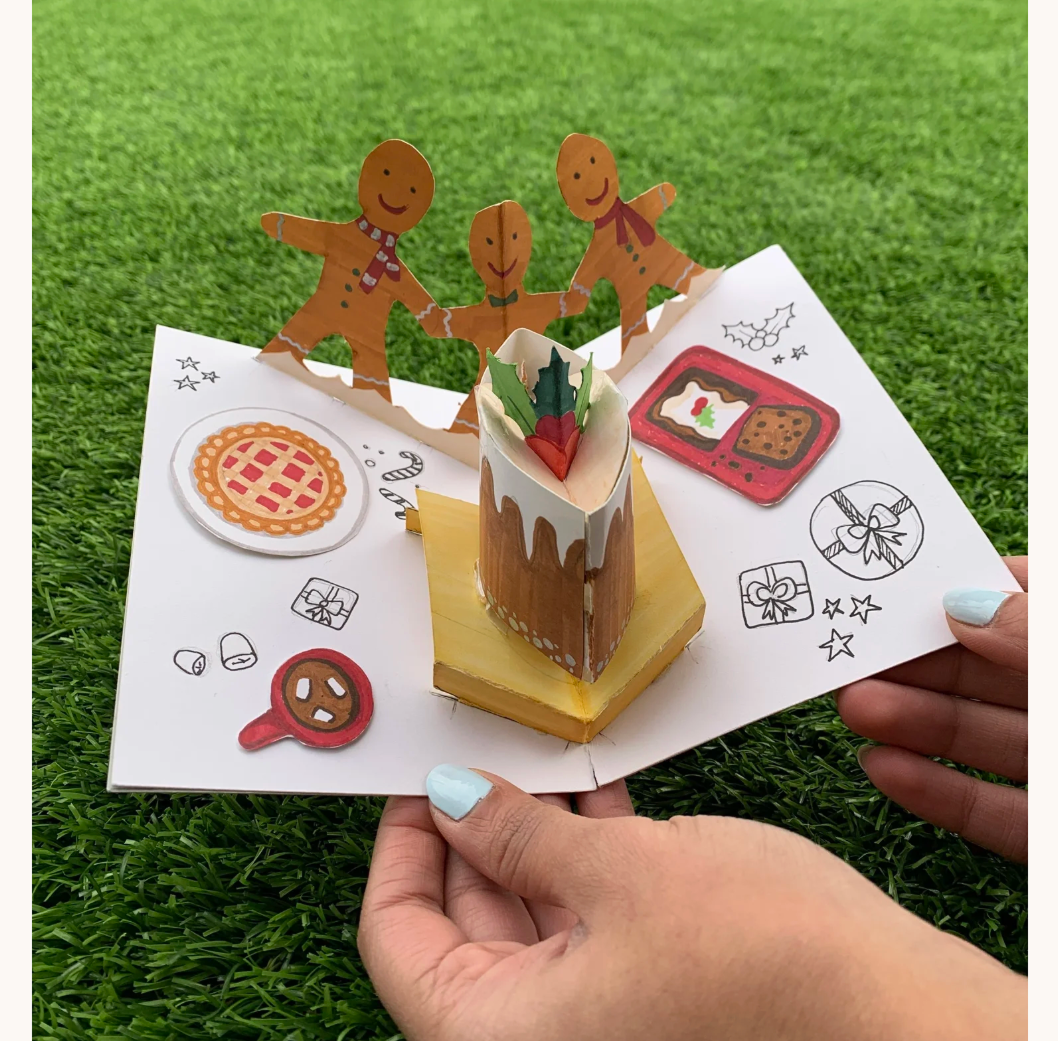
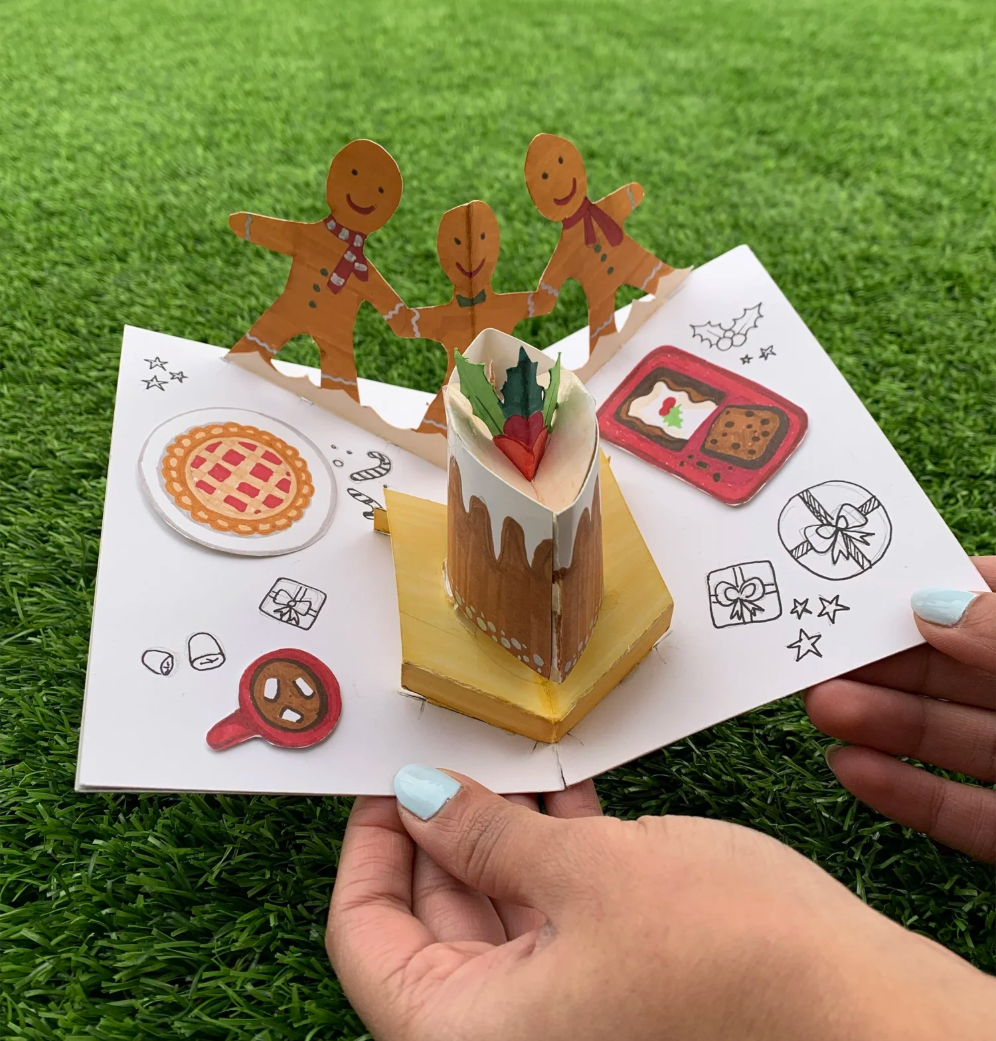
Add hover tooltips, forward-lift, and trim white padding on Beyond UX gallery
Replaces static captions with hover tooltip bubbles (matching the homepage
logo interaction), lifts images toward the viewer via 3D perspective instead
of translateY, trims baked-in white/off-white padding from product renders
and sketches, tightens grid spacing, and rounds image corners by 4px.

diff --git a/app/about/page.tsx b/app/about/page.tsx
@@ -5,6 +5,62 @@ import Image from "next/image";
 export default function About() {
   return (
     <div style={{ backgroundColor: "#FDF6EC", minHeight: "100vh" }}>
+      <style>{`
+        .beyond-item {
+          position: relative;
+          z-index: 1;
+          perspective: 1000px;
+        }
+        .beyond-item:hover {
+          z-index: 20;
+        }
+        .beyond-image {
+          display: block;
+          border-radius: 4px;
+          transition: transform 0.25s ease, box-shadow 0.25s ease;
+          transform: translateZ(0) scale(1);
+        }
+        .beyond-item:hover .beyond-image {
+          transform: translateZ(60px) scale(1.06);
+          box-shadow: 0 22px 32px rgba(0,0,0,0.22);
+        }
+        .beyond-tooltip {
+          position: absolute;
+          bottom: calc(100% + 14px);
+          left: 50%;
+          background: #275F55;
+          color: #FDF6EC;
+          font-family: 'Nunito', sans-serif;
+          font-size: 13px;
+          font-weight: 600;
+          padding: 10px 16px;
+          border-radius: 16px;
+          width: max-content;
+          max-width: 260px;
+          text-align: center;
+          line-height: 1.4;
+          pointer-events: none;
+          opacity: 0;
+          transition: opacity 0.2s ease, transform 0.2s ease;
+          transform: translateX(-50%) translateY(4px);
+          letter-spacing: 0.01em;
+          z-index: 10;
+        }
+        .beyond-tooltip::after {
+          content: '';
+          position: absolute;
+          top: 100%;
+          left: 50%;
+          transform: translateX(-50%);
+          border: 6px solid transparent;
+          border-top-color: #275F55;
+        }
+        .beyond-item:hover .beyond-tooltip {
+          opacity: 1;
+          transform: translateX(-50%) translateY(0);
+        }
+      `}</style>
+
       <Nav />
 
       <div style={{ maxWidth: "1120px", margin: "0 auto", padding: "0 48px" }}>
@@ -122,87 +178,62 @@ export default function About() {
             <div
               style={{
                 columnCount: 2,
-                columnGap: "40px",
+                columnGap: "16px",
                 marginTop: "24px",
               }}
             >
               {/* Image 1 */}
-              <div style={{ breakInside: "avoid", marginBottom: "40px" }}>
+              <div className="beyond-item" style={{ breakInside: "avoid", marginBottom: "16px" }}>
                 <Image
                   src="/beyond/mentor-1.png"
                   alt="Mentorship at high schools"
                   width={1808}
                   height={1356}
-                  style={{ display: "block", width: "100%", height: "auto" }}
+                  className="beyond-image"
+                  style={{ width: "100%", height: "auto" }}
                 />
-                <p
-                  style={{
-                    fontFamily: "'Nunito', sans-serif",
-                    fontWeight: 400,
-                    fontSize: "14px",
-                    color: "#275F55",
-                    marginTop: "12px",
-                    lineHeight: 1.4,
-                  }}
-                >
+                <div className="beyond-tooltip">
                   Mentorship on &ldquo;Careers in Design&rdquo; at high schools
-                </p>
+                </div>
               </div>
 
               {/* Image 2 */}
-              <div style={{ breakInside: "avoid", marginBottom: "40px" }}>
+              <div className="beyond-item" style={{ breakInside: "avoid", marginBottom: "16px" }}>
                 <Image
                   src="/beyond/mentor-2.png"
                   alt="Intro to UX at NYU"
                   width={1016}
                   height={1356}
-                  style={{ display: "block", width: "100%", height: "auto" }}
+                  className="beyond-image"
+                  style={{ width: "100%", height: "auto" }}
                 />
-                <p
-                  style={{
-                    fontFamily: "'Nunito', sans-serif",
-                    fontWeight: 400,
-                    fontSize: "14px",
-                    color: "#275F55",
-                    marginTop: "12px",
-                    lineHeight: 1.4,
-                  }}
-                >
+                <div className="beyond-tooltip">
                   &ldquo;Intro to UX&rdquo; course at NYU
-                </p>
+                </div>
               </div>
 
               {/* Image 3 */}
-              <div style={{ breakInside: "avoid", marginBottom: "40px" }}>
+              <div className="beyond-item" style={{ breakInside: "avoid", marginBottom: "16px" }}>
                 <Image
                   src="/beyond/mentor-3.png"
                   alt="Industry Panels"
                   width={1408}
                   height={1056}
-                  style={{ display: "block", width: "100%", height: "auto" }}
+                  className="beyond-image"
+                  style={{ width: "100%", height: "auto" }}
                 />
-                <p
-                  style={{
-                    fontFamily: "'Nunito', sans-serif",
-                    fontWeight: 400,
-                    fontSize: "14px",
-                    color: "#275F55",
-                    marginTop: "12px",
-                    lineHeight: 1.4,
-                  }}
-                >
-                  Industry Panels
-                </p>
+                <div className="beyond-tooltip">Industry Panels</div>
               </div>
 
               {/* Image 4 — no caption */}
-              <div style={{ breakInside: "avoid", marginBottom: "40px" }}>
+              <div className="beyond-item" style={{ breakInside: "avoid", marginBottom: "16px" }}>
                 <Image
                   src="/beyond/mentor-4.png"
                   alt=""
                   width={1406}
                   height={1056}
-                  style={{ display: "block", width: "100%", height: "auto" }}
+                  className="beyond-image"
+                  style={{ width: "100%", height: "auto" }}
                 />
               </div>
             </div>
@@ -233,41 +264,31 @@ export default function About() {
             <div
               style={{
                 columnCount: 2,
-                columnGap: "40px",
+                columnGap: "16px",
                 marginTop: "24px",
               }}
             >
               {[
-                { src: "/beyond/industrial-1a.png", alt: "Pop-up gardening cart for elderly", caption: "Design for elderly: A pop-up gardening cart for community common spaces in cities", width: 1040, height: 714 },
-                { src: "/beyond/industrial-1b.png", alt: "Windfall lighting exhibit design", caption: "Windfall: Lighting Exhibit Design", width: 1032, height: 743 },
-                { src: "/beyond/industrial-2.png", alt: "Ripples lighting exhibit design", caption: "Ripples: Lighting Exhibit Design", width: 830, height: 934 },
-                { src: "/beyond/industrial-3.png", alt: "Allerpack travel kit for food allergies", caption: "Allerpack: A travel kit for food allergies", width: 1126, height: 1075 },
-                { src: "/beyond/industrial-4.png", alt: "Green and Garnishes serving set", caption: "Green and Garnishes serving set: An all-inclusive salad bowl made for the Uncommon Goods brand catalog", width: 1070, height: 1149 },
-                { src: "/beyond/industrial-5.png", alt: "Globetrotter game for kids", caption: "Globetrotter: An imaginative game for kids to promote story-telling and problem-solving", width: 1036, height: 536 },
-                { src: "/beyond/industrial-6.png", alt: "Lemon squeezer design", caption: "Lemon Squeezer design: A lemon squeezing mechanism designed to minimize mess", width: 1038, height: 986 },
-                { src: "/beyond/industrial-7a.png", alt: "Hairdryer design", caption: "Hairdryer Design: A scaled hairdryer designed with the internal components of a real hairdryer", width: 1062, height: 536 },
-                { src: "/beyond/industrial-7b.png", alt: "Wanderlust piggy bank", caption: "Wanderlust Bank: A piggy bank for kids designed to evoke the thrill of vacations", width: 1029, height: 741 },
+                { src: "/beyond/industrial-1a.png", alt: "Pop-up gardening cart for elderly", caption: "Design for elderly: A pop-up gardening cart for community common spaces in cities", width: 995, height: 714 },
+                { src: "/beyond/industrial-1b.png", alt: "Windfall lighting exhibit design", caption: "Windfall: Lighting Exhibit Design", width: 1020, height: 743 },
+                { src: "/beyond/industrial-2.png", alt: "Ripples lighting exhibit design", caption: "Ripples: Lighting Exhibit Design", width: 771, height: 934 },
+                { src: "/beyond/industrial-3.png", alt: "Allerpack travel kit for food allergies", caption: "Allerpack: A travel kit for food allergies", width: 996, height: 1075 },
+                { src: "/beyond/industrial-4.png", alt: "Green and Garnishes serving set", caption: "Green and Garnishes serving set: An all-inclusive salad bowl made for the Uncommon Goods brand catalog", width: 996, height: 1149 },
+                { src: "/beyond/industrial-5.png", alt: "Globetrotter game for kids", caption: "Globetrotter: An imaginative game for kids to promote story-telling and problem-solving", width: 750, height: 536 },
+                { src: "/beyond/industrial-6.png", alt: "Lemon squeezer design", caption: "Lemon Squeezer design: A lemon squeezing mechanism designed to minimize mess", width: 996, height: 986 },
+                { src: "/beyond/industrial-7a.png", alt: "Hairdryer design", caption: "Hairdryer Design: A scaled hairdryer designed with the internal components of a real hairdryer", width: 871, height: 536 },
+                { src: "/beyond/industrial-7b.png", alt: "Wanderlust piggy bank", caption: "Wanderlust Bank: A piggy bank for kids designed to evoke the thrill of vacations", width: 989, height: 741 },
               ].map(({ src, alt, caption, width, height }) => (
-                <div key={src} style={{ breakInside: "avoid", marginBottom: "40px" }}>
+                <div key={src} className="beyond-item" style={{ breakInside: "avoid", marginBottom: "16px" }}>
                   <Image
                     src={src}
                     alt={alt}
                     width={width}
                     height={height}
-                    style={{ display: "block", width: "100%", height: "auto" }}
+                    className="beyond-image"
+                    style={{ width: "100%", height: "auto" }}
                   />
-                  <p
-                    style={{
-                      fontFamily: "'Nunito', sans-serif",
-                      fontWeight: 400,
-                      fontSize: "14px",
-                      color: "#275F55",
-                      marginTop: "12px",
-                      lineHeight: 1.4,
-                    }}
-                  >
-                    {caption}
-                  </p>
+                  <div className="beyond-tooltip">{caption}</div>
                 </div>
               ))}
             </div>
@@ -298,42 +319,32 @@ export default function About() {
             <div
               style={{
                 columnCount: 2,
-                columnGap: "40px",
+                columnGap: "16px",
                 marginTop: "24px",
               }}
             >
               {[
-                { n: 1, alt: "Pop up coffee house poster", caption: "Pop up coffee house invite: A poster designed to spread awareness for National Curry week", width: 1058, height: 1533 },
-                { n: 2, alt: "Pop up christmas card", caption: "Pop up christmas card", width: 1058, height: 1041 },
-                { n: 3, alt: "Rikshaw car concept sketch", caption: "Digital sketch: Rikshaw car concept", width: 1048, height: 711 },
-                { n: 4, alt: "Mushroom observation sketches", caption: "Observation sketches of mushrooms at the Brooklyn botanical garden", width: 1024, height: 1408 },
-                { n: 5, alt: "Museum of natural history sketches", caption: "Observation sketches at the Museum of natural history", width: 1050, height: 1014 },
-                { n: 6, alt: "Paper planar study", caption: "Paper planar study: A 3D study using a 2D paper to explore 3D principles", width: 1040, height: 660 },
-                { n: 7, alt: "Convexity study sculpture", caption: "Convexity study: Exploring 3D form through hierarchy, gesture, movement and visual interest using positive and negative spaces", width: 1036, height: 1492 },
-                { n: 8, alt: "Rectilinear study", caption: "Rectilinear study: a rectilinear form that has spacial tension and movement using proportionally diverse components.", width: 1058, height: 648 },
-                { n: 9, alt: "Teapot abstraction", caption: "Teapot abstraction: Depicting the concept of a tea party using 3D principles on CAD", width: 1062, height: 813 },
-                { n: 10, alt: "Wooden photo frame", caption: "Wooden photo frame", width: 1078, height: 1324 },
+                { n: 1, alt: "Pop up coffee house poster", caption: "Pop up coffee house invite: A poster designed to spread awareness for National Curry week", width: 996, height: 1533 },
+                { n: 2, alt: "Pop up christmas card", caption: "Pop up christmas card", width: 996, height: 1041 },
+                { n: 3, alt: "Rikshaw car concept sketch", caption: "Digital sketch: Rikshaw car concept", width: 966, height: 711 },
+                { n: 4, alt: "Mushroom observation sketches", caption: "Observation sketches of mushrooms at the Brooklyn botanical garden", width: 996, height: 1408 },
+                { n: 5, alt: "Museum of natural history sketches", caption: "Observation sketches at the Museum of natural history", width: 987, height: 1014 },
+                { n: 6, alt: "Paper planar study", caption: "Paper planar study: A 3D study using a 2D paper to explore 3D principles", width: 996, height: 660 },
+                { n: 7, alt: "Convexity study sculpture", caption: "Convexity study: Exploring 3D form through hierarchy, gesture, movement and visual interest using positive and negative spaces", width: 996, height: 1492 },
+                { n: 8, alt: "Rectilinear study", caption: "Rectilinear study: a rectilinear form that has spacial tension and movement using proportionally diverse components.", width: 919, height: 648 },
+                { n: 9, alt: "Teapot abstraction", caption: "Teapot abstraction: Depicting the concept of a tea party using 3D principles on CAD", width: 996, height: 813 },
+                { n: 10, alt: "Wooden photo frame", caption: "Wooden photo frame", width: 996, height: 1324 },
               ].map(({ n, alt, caption, width, height }) => (
-                <div key={n} style={{ breakInside: "avoid", marginBottom: "40px" }}>
+                <div key={n} className="beyond-item" style={{ breakInside: "avoid", marginBottom: "16px" }}>
                   <Image
                     src={`/beyond/creative-${n}.png`}
                     alt={alt}
                     width={width}
                     height={height}
-                    style={{ display: "block", width: "100%", height: "auto" }}
+                    className="beyond-image"
+                    style={{ width: "100%", height: "auto" }}
                   />
-                  <p
-                    style={{
-                      fontFamily: "'Nunito', sans-serif",
-                      fontWeight: 400,
-                      fontSize: "14px",
-                      color: "#275F55",
-                      marginTop: "12px",
-                      lineHeight: 1.4,
-                    }}
-                  >
-                    {caption}
-                  </p>
+                  <div className="beyond-tooltip">{caption}</div>
                 </div>
               ))}
             </div>
